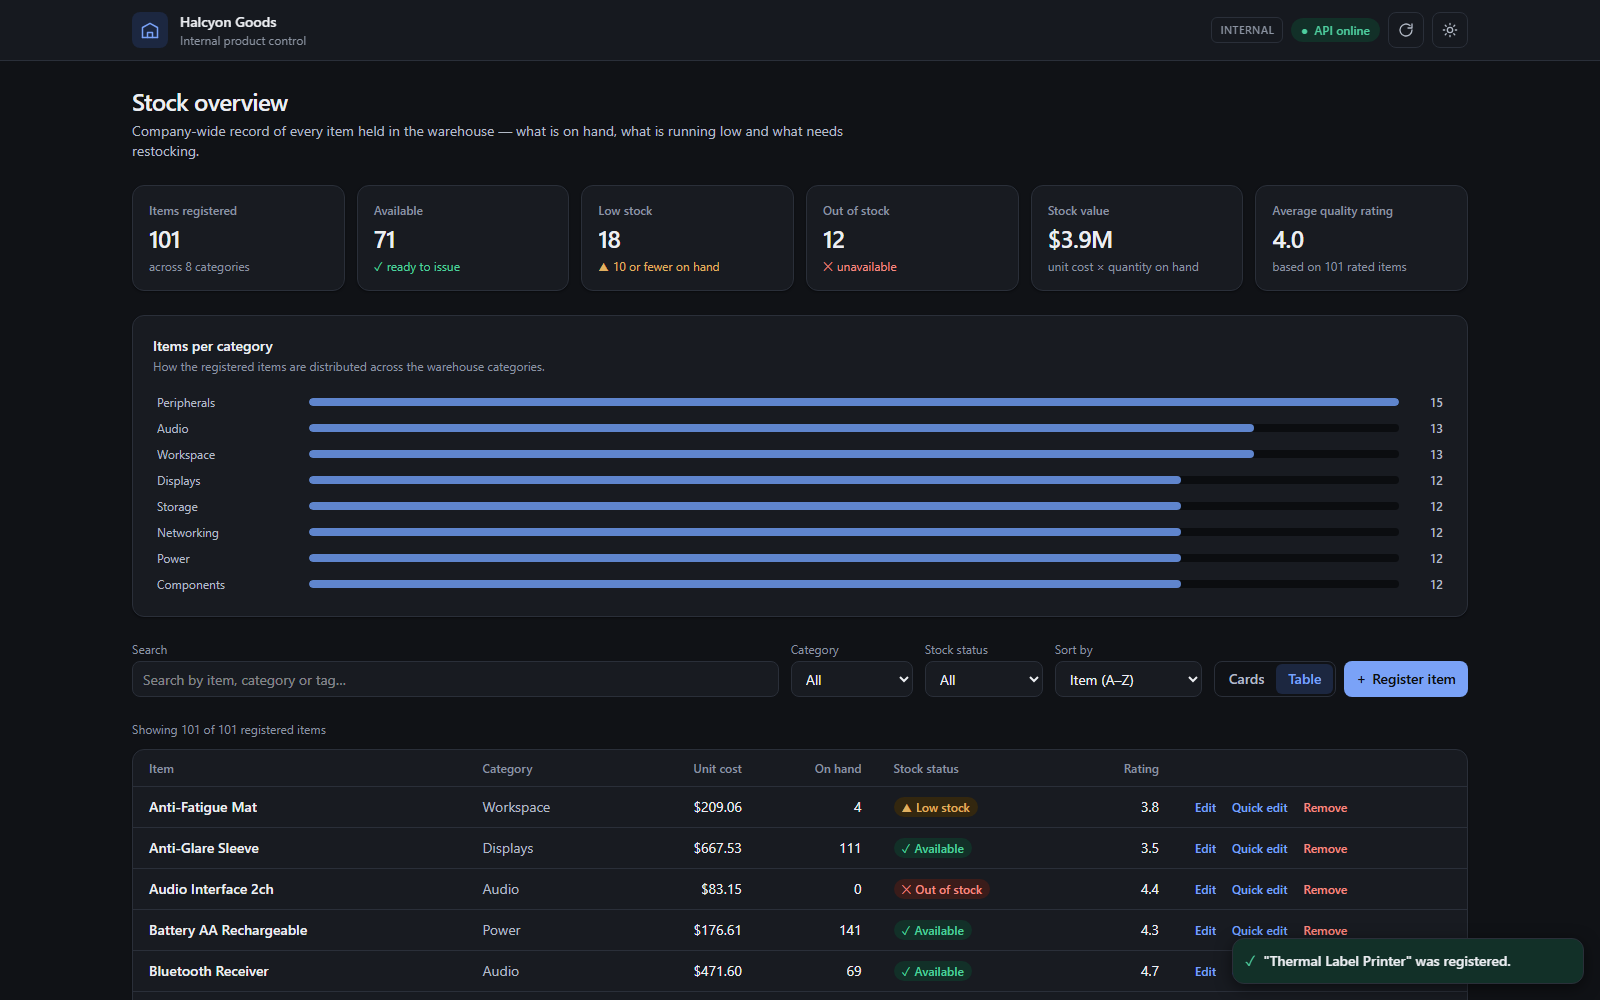
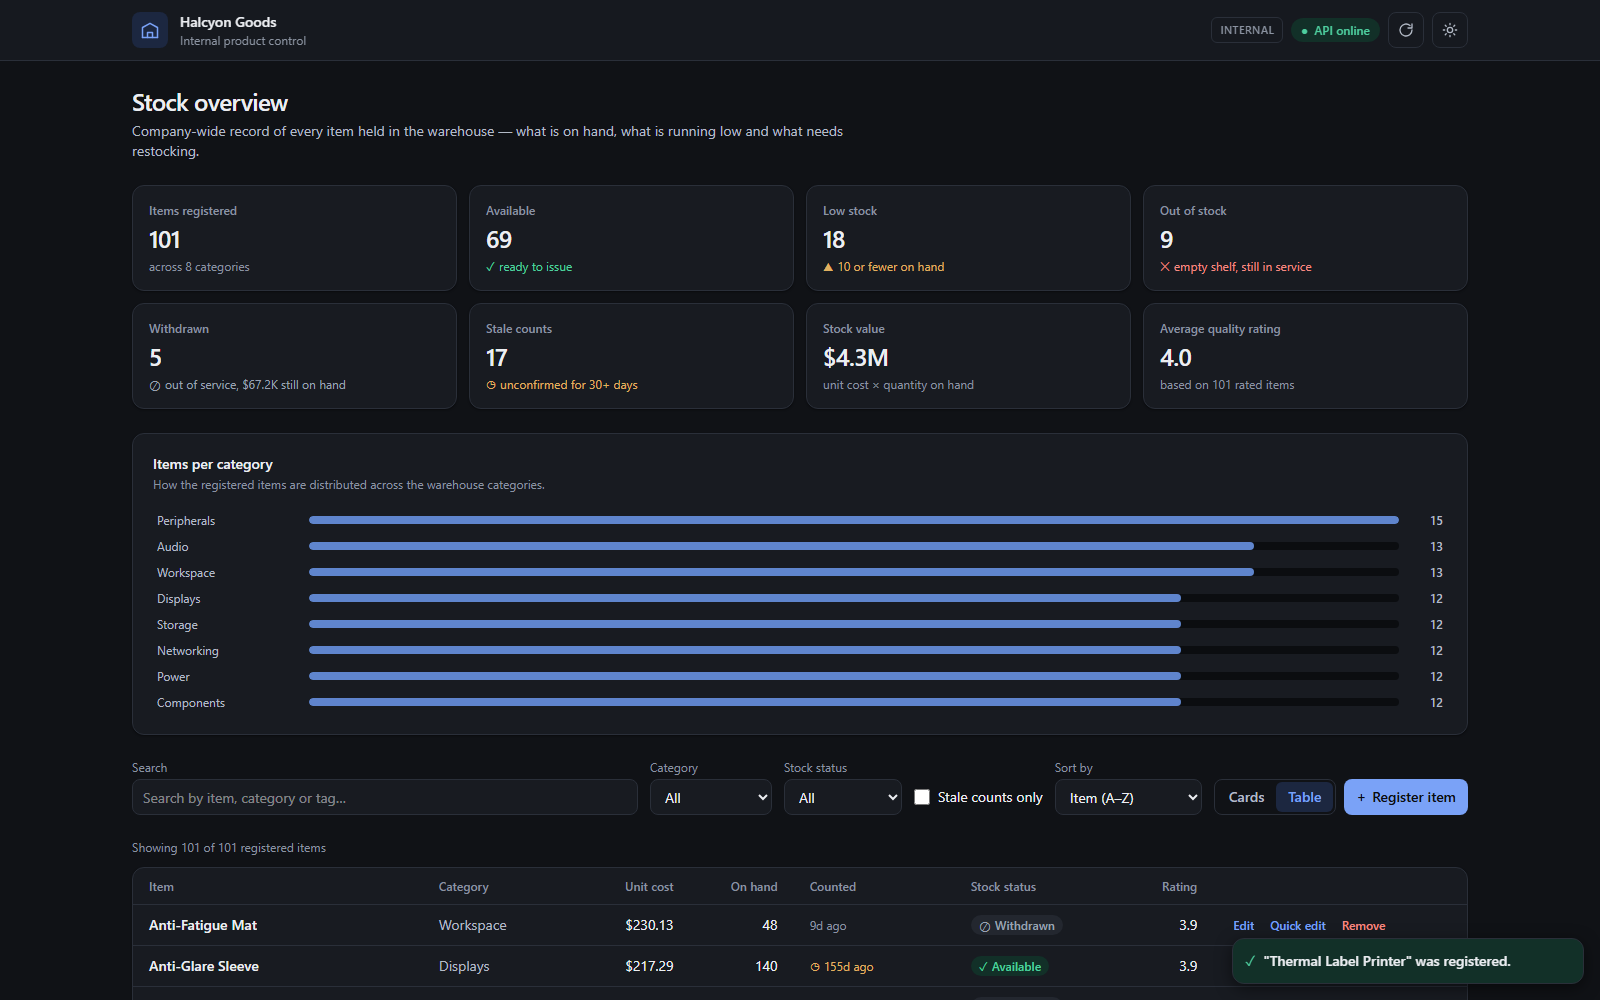
Retake the browser captures, and add one for the count-freshness filter
Captures 01 to 09 showed six tiles, three stock badges and no count column, so
they no longer described the dashboard. Retaken against the containerised stack
with the same walkthrough and the same item, so they stay comparable with the
originals.

Capture 16 is new: the stale-count filter, sorted smallest quantity first. Its
two leading rows are the argument in one frame - two items flagged for
restocking, one of them on a quantity nobody has ever established.

Captures 10 to 15 are terminal renderings from the earlier session and were not
retaken. They are still accurate about what they show, but they predate the
column, so the note at the end of DESCRIPTIONS.txt now says which capture is
missing it rather than leaving a reader to find out.

The register was left in its clean 100-product state.

diff --git a/README.md b/README.md
@@ -13,9 +13,10 @@ together: one HTTP contract, two interfaces — a web dashboard and a terminal m
 
 ![Stock overview](docs/screenshots/01-dashboard-overview-dark.png)
 
-The rest of the system — registering, updating and removing an item, the same
-three operations seen from Postgres, and the stack booting from an empty volume
-— is in [docs/screenshots](docs/screenshots), with each capture explained in
+The rest of the system — registering, updating and removing an item, the
+quantities nobody has confirmed lately, the same three operations seen from
+Postgres, and the stack booting from an empty volume — is in
+[docs/screenshots](docs/screenshots), with each capture explained in
 [DESCRIPTIONS.txt](docs/screenshots/DESCRIPTIONS.txt).
 
 **New to the project?** [docs/guide](docs/guide) walks through it from the
